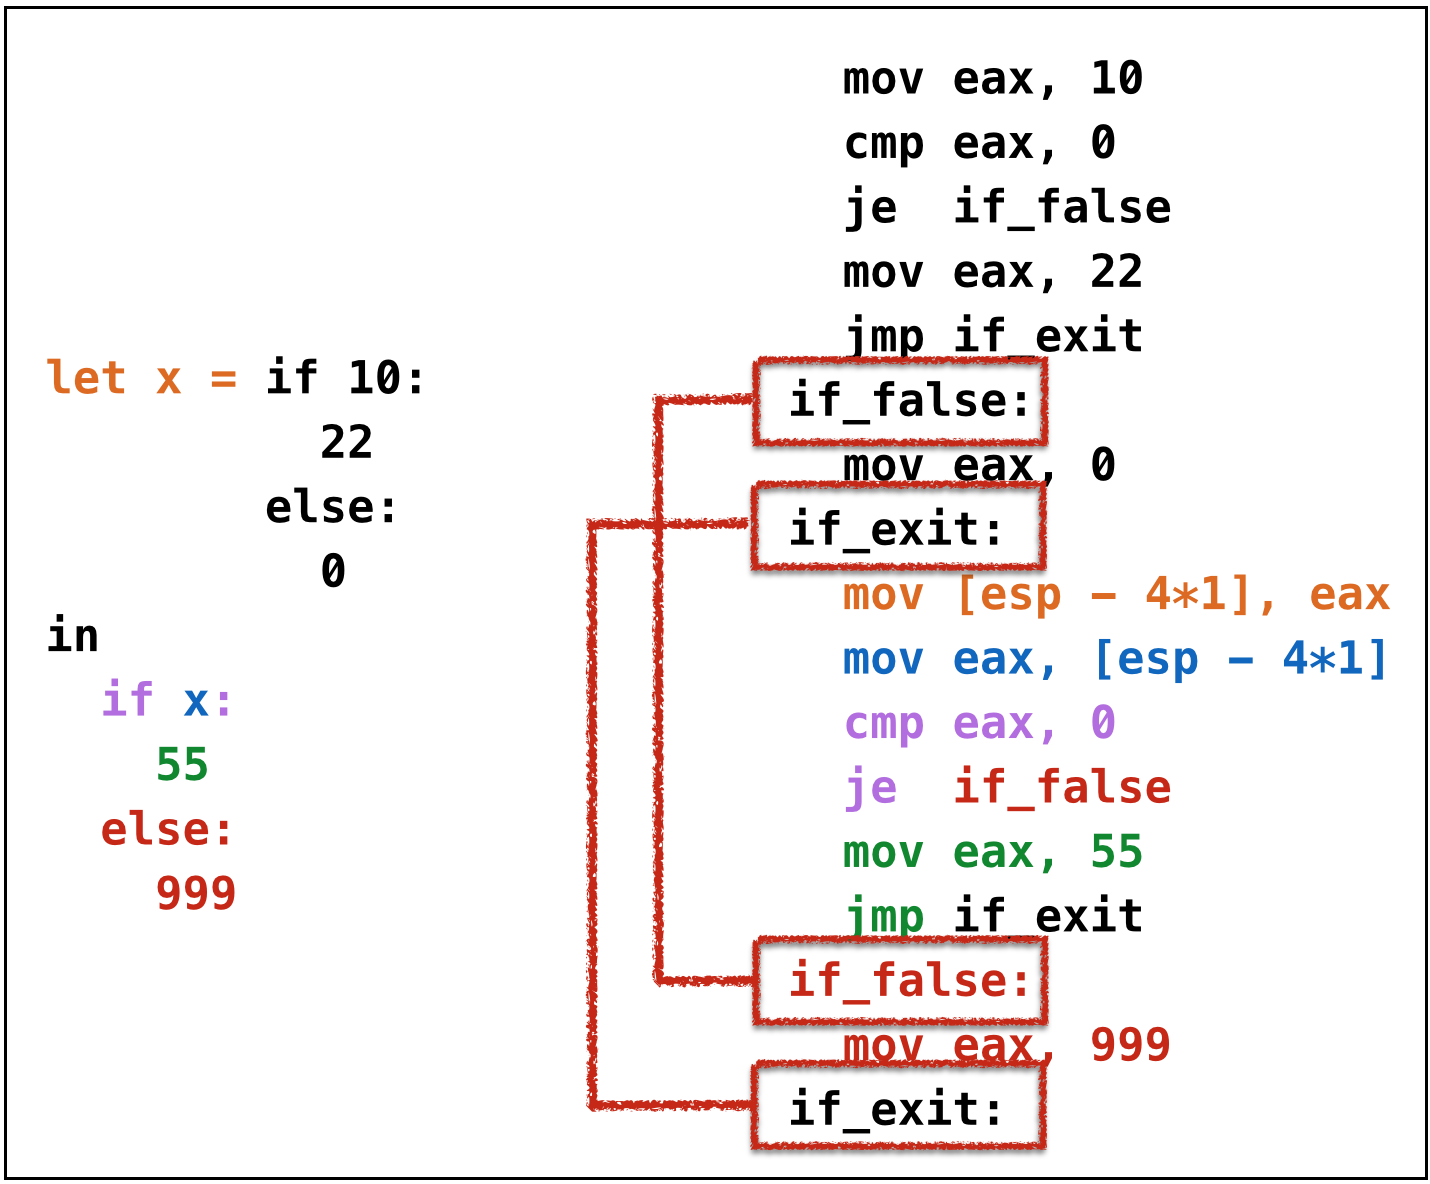
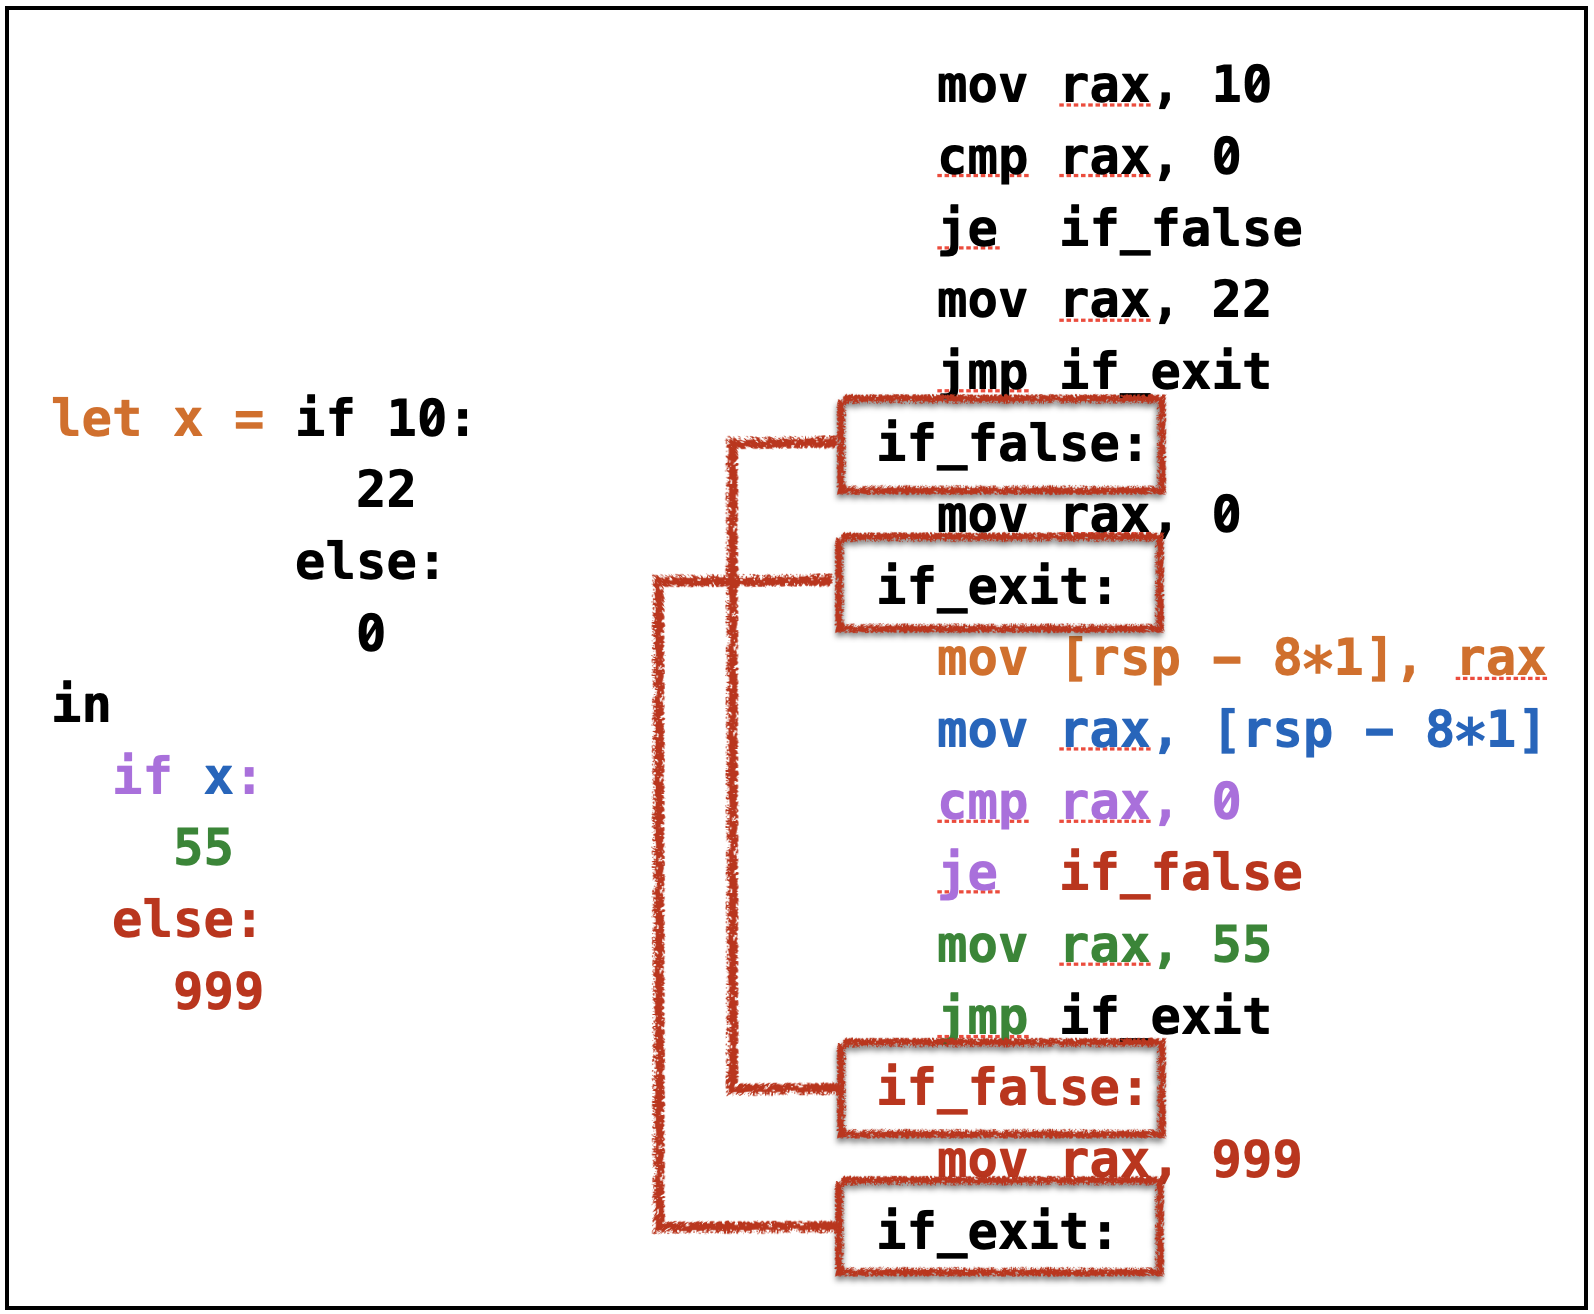
update page

diff --git a/docs/lectures/04-boa.html b/docs/lectures/04-boa.html
@@ -455,7 +455,7 @@ if (window.navigator.appName == "Microsoft Internet Explorer") {
 <li>Return a pair <code>(i', e')</code> of <em>updated counter</em> <code>i'</code> and tagged expression <code>e'</code></li>
 </ol>
 <p><br> <br> <br> <br> <br> <br> <br> <br> <br> <br></p>
-<p><strong>QUIZ</strong></p>
+<h2 id="quiz-1">QUIZ</h2>
 <div class="sourceCode" id="cb14"><pre class="sourceCode haskell"><code class="sourceCode haskell"><span id="cb14-1"><a href="#cb14-1" aria-hidden="true"></a><span class="ot">doTag ::</span> <span class="dt">Int</span> <span class="ot">-&gt;</span> <span class="dt">BareE</span> <span class="ot">-&gt;</span> (<span class="dt">Int</span>, <span class="dt">TagE</span>)</span>
 <span id="cb14-2"><a href="#cb14-2" aria-hidden="true"></a>doTag i (<span class="dt">Number</span> n _)    <span class="ot">=</span> (i <span class="op">+</span> <span class="dv">1</span> , <span class="dt">Number</span> n i)</span>
 <span id="cb14-3"><a href="#cb14-3" aria-hidden="true"></a>doTag i (<span class="dt">Var</span>    x _)    <span class="ot">=</span> (i <span class="op">+</span> <span class="dv">1</span> , <span class="dt">Var</span>     x i)</span>
@@ -517,7 +517,7 @@ doTag i (If e1 e2 e3 _) = (i3 + 1, If e1' e2' e3' i3)
 <p>Now that we have the tags we lets implement our <a href="#strategy">compilation strategy</a></p>
 <div class="sourceCode" id="cb17"><pre class="sourceCode haskell"><code class="sourceCode haskell"><span id="cb17-1"><a href="#cb17-1" aria-hidden="true"></a>compile env (<span class="dt">If</span> eCond eTrue eFalse i)</span>
 <span id="cb17-2"><a href="#cb17-2" aria-hidden="true"></a>  <span class="ot">=</span>   compile env eCond <span class="op">++</span>          <span class="co">-- compile `eCond`</span></span>
-<span id="cb17-3"><a href="#cb17-3" aria-hidden="true"></a>    [ <span class="dt">ICmp</span> (<span class="dt">Reg</span> <span class="dt">EAX</span>) (<span class="dt">Const</span> <span class="dv">0</span>)      <span class="co">-- compare result to 0</span></span>
+<span id="cb17-3"><a href="#cb17-3" aria-hidden="true"></a>    [ <span class="dt">ICmp</span> (<span class="dt">Reg</span> <span class="dt">RAX</span>) (<span class="dt">Const</span> <span class="dv">0</span>)      <span class="co">-- compare result to 0</span></span>
 <span id="cb17-4"><a href="#cb17-4" aria-hidden="true"></a>    , <span class="dt">IJe</span> (<span class="dt">BranchFalse</span> i)           <span class="co">-- if-zero then jump to 'False'-block</span></span>
 <span id="cb17-5"><a href="#cb17-5" aria-hidden="true"></a>    ]</span>
 <span id="cb17-6"><a href="#cb17-6" aria-hidden="true"></a>   <span class="op">++</span> compile env eTrue  <span class="op">++</span>         <span class="co">-- code for `True`-block</span></span>
@@ -552,7 +552,7 @@ doTag i (If e1 e2 e3 _) = (i3 + 1, If e1' e2' e3' i3)
 <li>Recall: We want the result to be in <code>rax</code> after the instructions finish.</li>
 </ul>
 <p><br> <br> <br> <br> <br> <br> <br> <br> <br> <br></p>
-<h2 id="quiz-1">QUIZ</h2>
+<h2 id="quiz-2">QUIZ</h2>
 <p>What is the assembly corresponding to <code>33 - 10</code> ?</p>
 <div class="sourceCode" id="cb18"><pre class="sourceCode nasm"><code class="sourceCode nasm"><span id="cb18-1"><a href="#cb18-1" aria-hidden="true"></a>?<span class="dv">1</span> <span class="kw">rax</span>, ?<span class="dv">2</span></span>
 <span id="cb18-2"><a href="#cb18-2" aria-hidden="true"></a>?<span class="dv">3</span> <span class="kw">rax</span>, ?<span class="dv">4</span></span></code></pre></div>
@@ -597,7 +597,7 @@ doTag i (If e1 e2 e3 _) = (i3 + 1, If e1' e2' e3' i3)
 <li>Add <code>n</code> to <code>rax</code>.</li>
 </ul>
 <p><br> <br> <br> <br> <br> <br> <br> <br> <br></p>
-<h2 id="quiz-2">QUIZ</h2>
+<h2 id="quiz-3">QUIZ</h2>
 <p>What is the assembly corresponding to <code>(10 + 20) * 30</code> ?</p>
 <div class="sourceCode" id="cb19"><pre class="sourceCode nasm"><code class="sourceCode nasm"><span id="cb19-1"><a href="#cb19-1" aria-hidden="true"></a><span class="kw">mov</span> <span class="kw">rax</span>, <span class="dv">10</span></span>
 <span id="cb19-2"><a href="#cb19-2" aria-hidden="true"></a>?<span class="dv">1</span>  <span class="kw">rax</span>, ?<span class="dv">2</span></span>
@@ -653,7 +653,7 @@ doTag i (If e1 e2 e3 _) = (i3 + 1, If e1' e2' e3' i3)
 <li><code>v1 * v2</code></li>
 </ul>
 <p><br> <br> <br> <br> <br> <br> <br> <br> <br></p>
-<h2 id="quiz-3">QUIZ</h2>
+<h2 id="quiz-4">QUIZ</h2>
 <blockquote>
 <p>ANF means all <strong>primitive operations</strong> have <strong>immediate</strong> arguments.</p>
 </blockquote>
@@ -721,7 +721,7 @@ doTag i (If e1 e2 e3 _) = (i3 + 1, If e1' e2' e3' i3)
 <div class="sourceCode" id="cb31"><pre class="sourceCode haskell"><code class="sourceCode haskell"><span id="cb31-1"><a href="#cb31-1" aria-hidden="true"></a><span class="kw">type</span> <span class="dt">ImmExpr</span> <span class="ot">=</span> {e<span class="op">:</span><span class="dt">Expr</span> <span class="op">|</span> isImm e <span class="op">==</span> <span class="dt">True</span>}</span></code></pre></div>
 <p>The <em>subset</em> of <code>Expr</code> <em>such that</em> <code>isImm</code> returns <code>True</code></p>
 <p><br> <br> <br> <br> <br> <br> <br> <br> <br> <br></p>
-<h2 id="quiz-4">QUIZ</h2>
+<h2 id="quiz-5">QUIZ</h2>
 <p>Similarly, lets write a function that describes <strong>ANF</strong> expressions</p>
 <blockquote>
 <p>ANF means all <strong>primitive operations</strong> have <strong>immediate</strong> arguments.</p>
@@ -739,7 +739,7 @@ doTag i (If e1 e2 e3 _) = (i3 + 1, If e1' e2' e3' i3)
 <span id="cb33-4"><a href="#cb33-4" aria-hidden="true"></a><span class="co">{- D -}</span> isImm e1 <span class="op">&amp;&amp;</span> isImm e2</span>
 <span id="cb33-5"><a href="#cb33-5" aria-hidden="true"></a><span class="co">{- E -}</span> isImm e2</span></code></pre></div>
 <p><br> <br> <br> <br> <br> <br> <br> <br> <br> <br> <br> <br></p>
-<h3 id="quiz-5">QUIZ</h3>
+<h3 id="quiz-6">QUIZ</h3>
 <p>Similarly, lets write a function that describes <strong>ANF</strong> expressions</p>
 <blockquote>
 <p>ANF means all <strong>primitive operations</strong> have <strong>immediate</strong> arguments.</p>
@@ -786,8 +786,8 @@ doTag i (If e1 e2 e3 _) = (i3 + 1, If e1' e2' e3' i3)
 </ul>
 <div class="sourceCode" id="cb38"><pre class="sourceCode haskell"><code class="sourceCode haskell"><span id="cb38-1"><a href="#cb38-1" aria-hidden="true"></a><span class="ot">compile ::</span> <span class="dt">Env</span> <span class="ot">-&gt;</span> <span class="dt">TagE</span> <span class="ot">-&gt;</span> <span class="dt">Asm</span></span>
 <span id="cb38-2"><a href="#cb38-2" aria-hidden="true"></a>compile env (<span class="dt">Prim2</span> o v1 v2)</span>
-<span id="cb38-3"><a href="#cb38-3" aria-hidden="true"></a>  <span class="ot">=</span> [ <span class="dt">IMov</span>      (<span class="dt">Reg</span> <span class="dt">EAX</span>) (immArg env v1)</span>
-<span id="cb38-4"><a href="#cb38-4" aria-hidden="true"></a>    , (prim2 o) (<span class="dt">Reg</span> <span class="dt">EAX</span>) (immArg env v2)</span>
+<span id="cb38-3"><a href="#cb38-3" aria-hidden="true"></a>  <span class="ot">=</span> [ <span class="dt">IMov</span>      (<span class="dt">Reg</span> <span class="dt">RAX</span>) (immArg env v1)</span>
+<span id="cb38-4"><a href="#cb38-4" aria-hidden="true"></a>    , (prim2 o) (<span class="dt">Reg</span> <span class="dt">RAX</span>) (immArg env v2)</span>
 <span id="cb38-5"><a href="#cb38-5" aria-hidden="true"></a>    ]</span></code></pre></div>
 <p>where we have a helper to find the <code>Asm</code> variant of a <code>Prim2</code> operation</p>
 <div class="sourceCode" id="cb39"><pre class="sourceCode haskell"><code class="sourceCode haskell"><span id="cb39-1"><a href="#cb39-1" aria-hidden="true"></a><span class="ot">prim2 ::</span> <span class="dt">Prim2</span> <span class="ot">-&gt;</span> <span class="dt">Arg</span> <span class="ot">-&gt;</span> <span class="dt">Arg</span> <span class="ot">-&gt;</span> <span class="dt">Instruction</span></span>
@@ -802,7 +802,7 @@ doTag i (If e1 e2 e3 _) = (i3 + 1, If e1' e2' e3' i3)
 <span id="cb40-5"><a href="#cb40-5" aria-hidden="true"></a>    i                   <span class="ot">=</span> fromMaybe err (<span class="fu">lookup</span> x env)</span>
 <span id="cb40-6"><a href="#cb40-6" aria-hidden="true"></a>    err                 <span class="ot">=</span> <span class="fu">error</span> (printf <span class="st">&quot;Error: '%s' is unbound&quot;</span> x)</span></code></pre></div>
 <p><br> <br> <br> <br> <br> <br> <br> <br> <br> <br> <br></p>
-<h2 id="quiz-6">QUIZ</h2>
+<h2 id="quiz-7">QUIZ</h2>
 <p>Which of the below are in ANF ?</p>
 <div class="sourceCode" id="cb41"><pre class="sourceCode haskell"><code class="sourceCode haskell"><span id="cb41-1"><a href="#cb41-1" aria-hidden="true"></a><span class="co">{- 1 -}</span> <span class="dv">2</span> <span class="op">+</span> <span class="dv">3</span> <span class="op">+</span> <span class="dv">4</span></span>
 <span id="cb41-2"><a href="#cb41-2" aria-hidden="true"></a></span>

diff --git a/lectures/04-boa.md b/lectures/04-boa.md
@@ -501,7 +501,7 @@ The key work is done by `doTag i e`
 <br>
 
 
-**QUIZ**
+## QUIZ 
 
 ```haskell
 doTag :: Int -> BareE -> (Int, TagE)
@@ -602,7 +602,7 @@ Now that we have the tags we lets implement our [compilation strategy](#strategy
 ```haskell
 compile env (If eCond eTrue eFalse i)
   =   compile env eCond ++          -- compile `eCond`
-    [ ICmp (Reg EAX) (Const 0)      -- compare result to 0
+    [ ICmp (Reg RAX) (Const 0)      -- compare result to 0
     , IJe (BranchFalse i)           -- if-zero then jump to 'False'-block
     ]
    ++ compile env eTrue  ++         -- code for `True`-block
@@ -1276,8 +1276,8 @@ Strategy: Given `v1 + v2` (where `v1` and `v2` are **immediate expressions**)
 ```haskell
 compile :: Env -> TagE -> Asm
 compile env (Prim2 o v1 v2)
-  = [ IMov      (Reg EAX) (immArg env v1)
-    , (prim2 o) (Reg EAX) (immArg env v2)
+  = [ IMov      (Reg RAX) (immArg env v1)
+    , (prim2 o) (Reg RAX) (immArg env v2)
     ]
 ```
 
